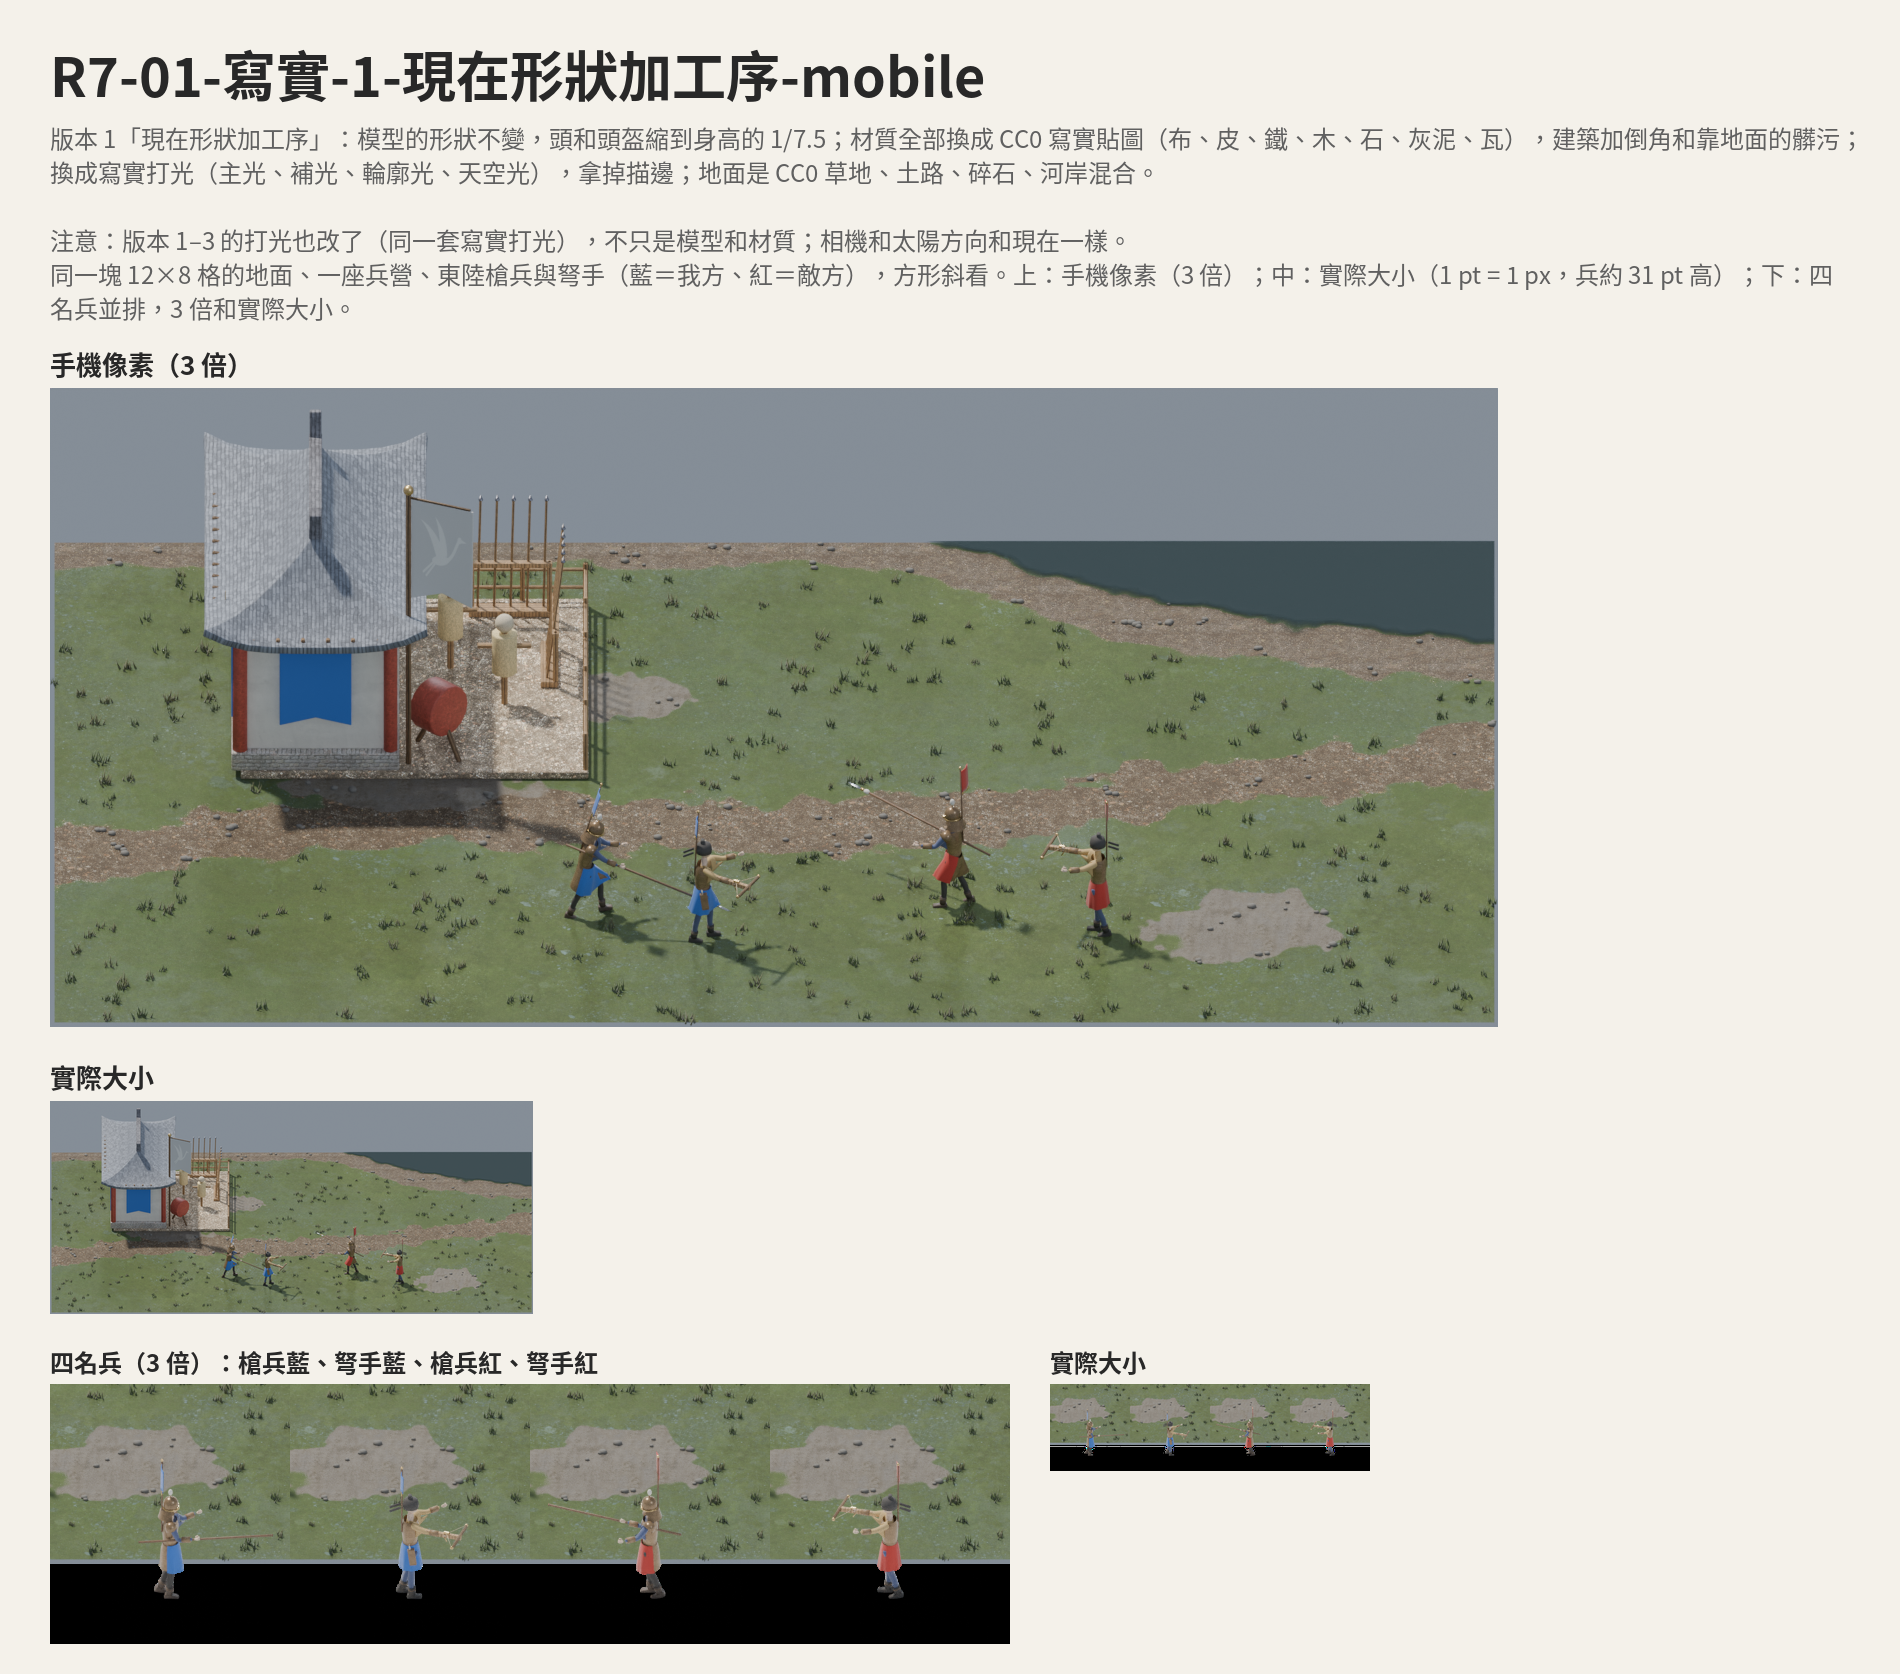
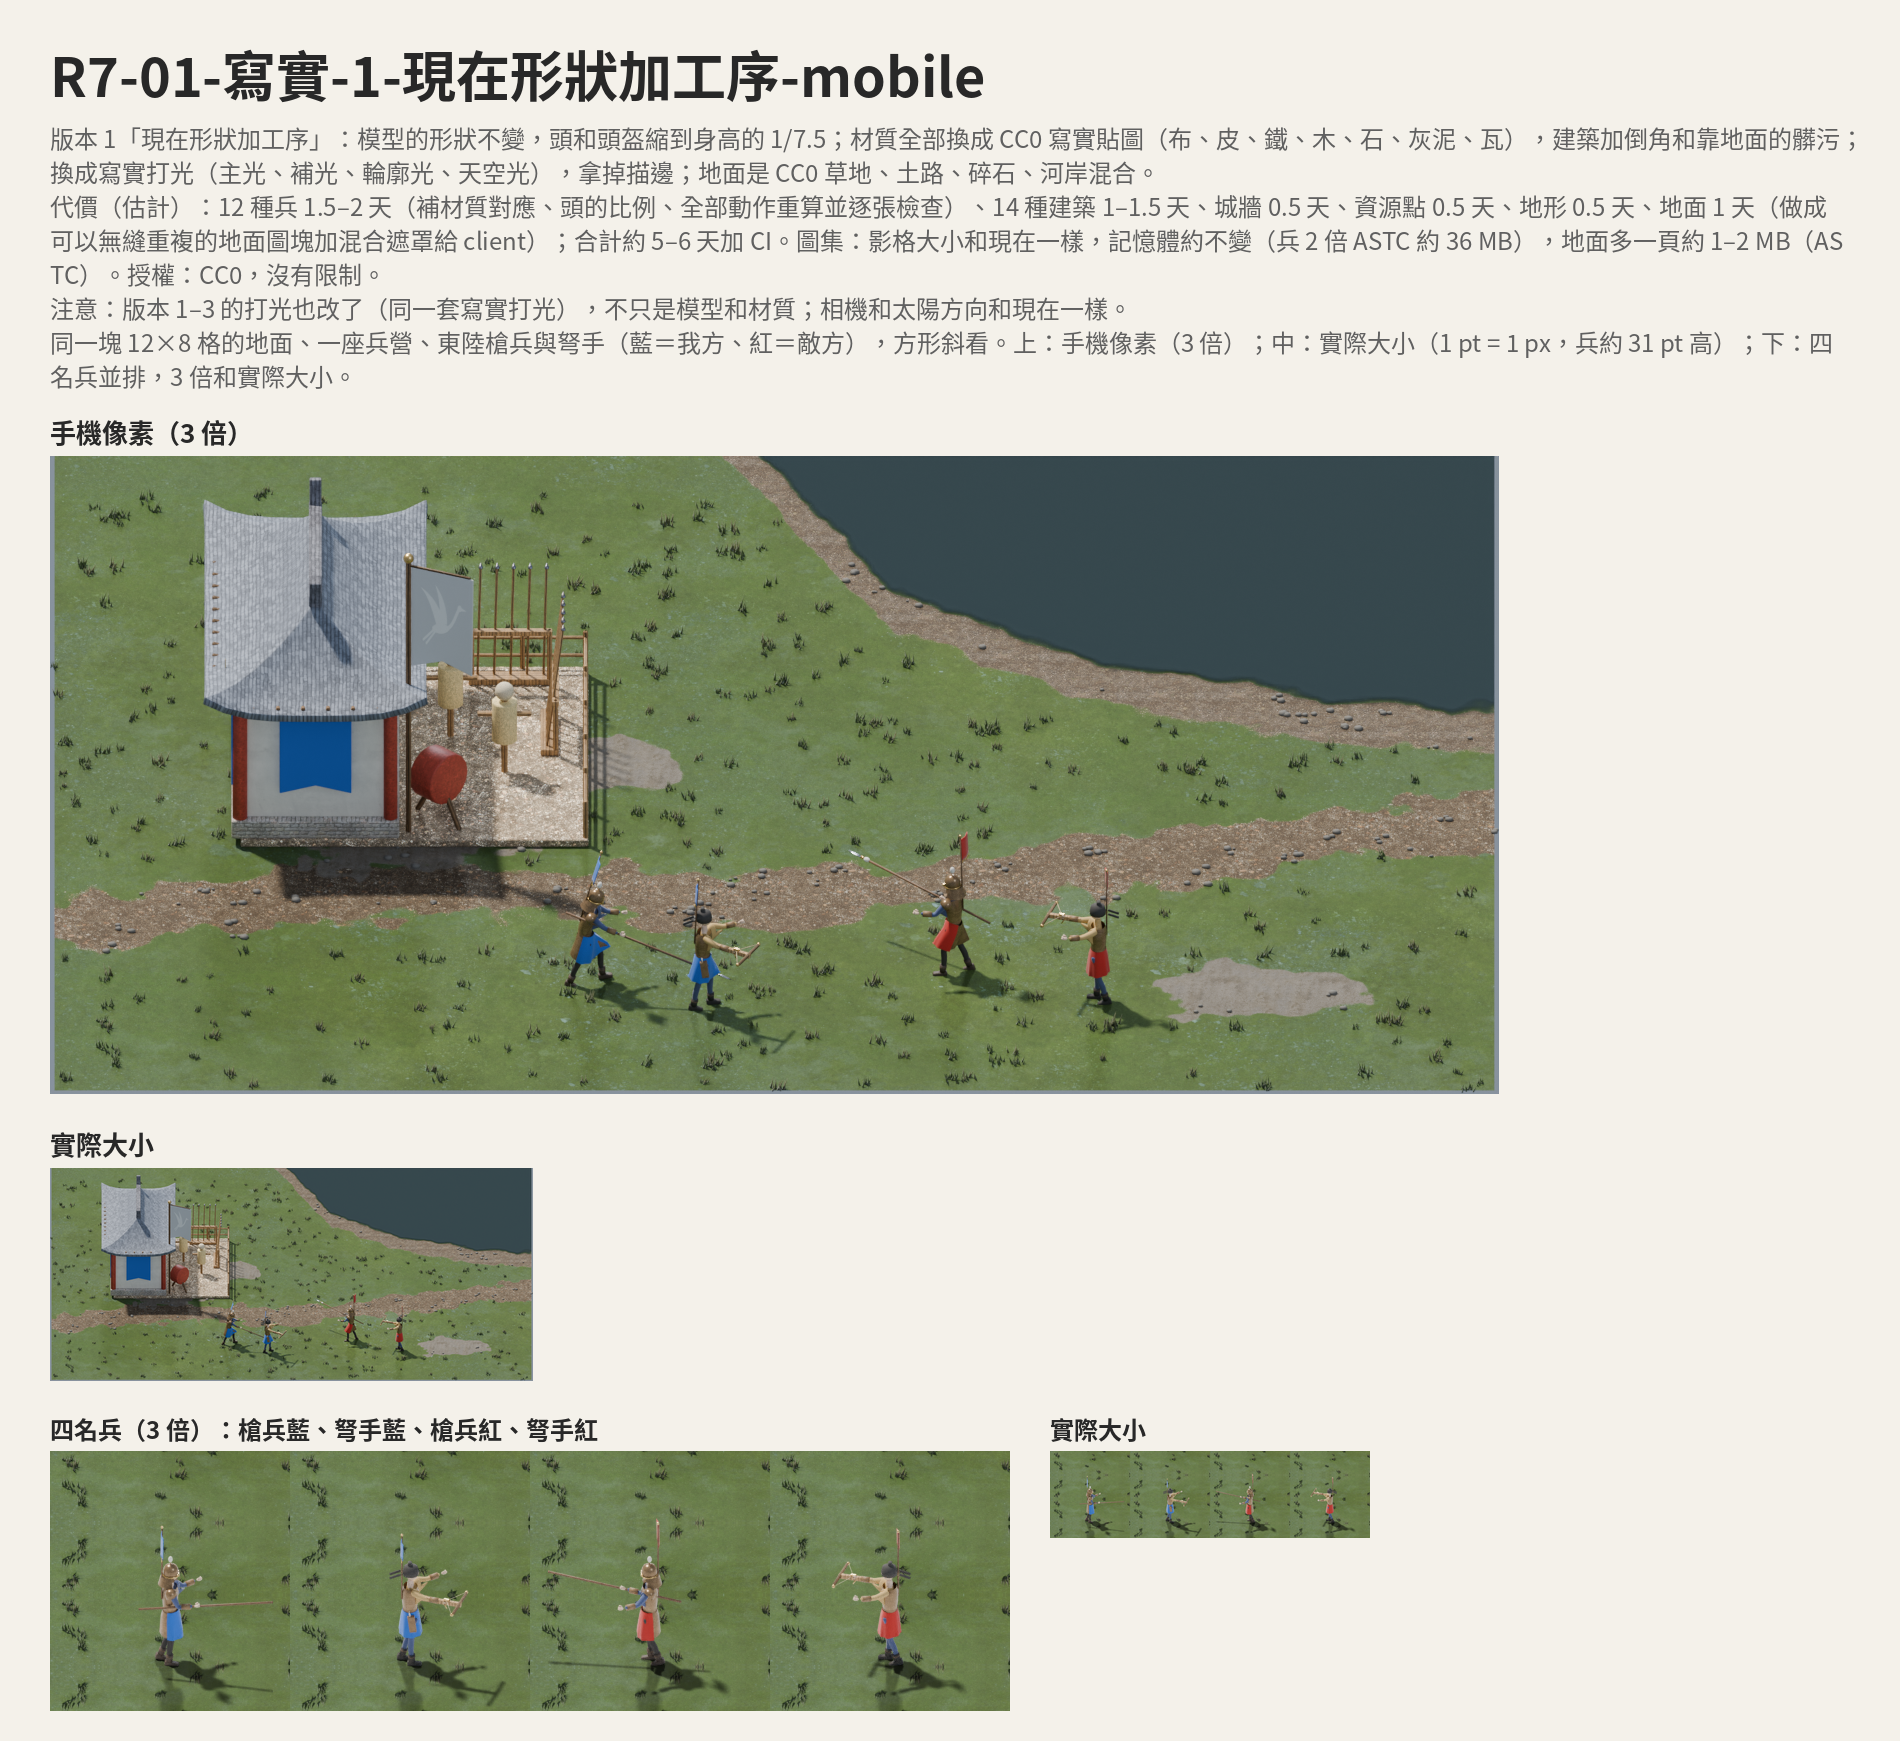
R7 比較圖：四個版本各一張（手機 3 倍、實際大小、四名兵並排、代價）、總覽、walk 與 attack 的 GIF；正式兵種算圖可以套 R7 外觀（R7_VERSION，輸出在另一個資料夾），給 style-test-1

Changed region(s): [[0.0, 0.0311, 0.9626, 0.994]]

diff --git a/design/r7/common/boards_r7.py b/design/r7/common/boards_r7.py
@@ -124,10 +124,14 @@ def ground_swatch(k, w, h):
         return Image.new("RGBA", (w, h), GROUND[0] + (255,))
     meta = json.loads((BUILD / f"v{k}" / "scene_x3.json").read_text())
     ax, ay = meta["anchor"]
-    x, y = int(ax - 9.0 * PPM), int(ay + 5.8 * PPM * 0.5)       # open grass west of the units
+    # a clean strip of grass in the south-west corner (2.4 m deep), repeated down the swatch
+    x, y = int(ax - 9.5 * PPM), int(ay + 6.6 * PPM * 0.5)
     x = min(max(x, w // 2), sc.width - w // 2)
-    y = min(max(y, h // 2), sc.height - h // 2)
-    return sc.crop((x - w // 2, y - h // 2, x + w // 2, y + h // 2))
+    band = sc.crop((x - w // 2, y - 36, x + w // 2, y + 36))
+    out = Image.new("RGBA", (w, h))
+    for k in range(0, h, band.height):
+        out.paste(band if (k // band.height) % 2 == 0 else band.transpose(Image.FLIP_TOP_BOTTOM), (0, k))
+    return out
 
 
 def strip(k, art, scale=1.0):
@@ -198,6 +202,15 @@ def board(k, art, ref, cost):
 
 COST = {
     0: "代價：不用重做。圖集照 art-v4 實測：兵 12 種 3 倍未壓縮 309 MB、2 倍 ASTC 36 MB；建築每個文化 3 倍約 46 MB。",
+    1: "代價（估計）：12 種兵 1.5–2 天（補材質對應、頭的比例、全部動作重算並逐張檢查）、14 種建築 1–1.5 天、城牆 0.5 天、"
+       "資源點 0.5 天、地形 0.5 天、地面 1 天（做成可以無縫重複的地面圖塊加混合遮罩給 client）；合計約 5–6 天加 CI。"
+       "圖集：影格大小和現在一樣，記憶體約不變（兵 2 倍 ASTC 約 36 MB），地面多一頁約 1–2 MB（ASTC）。授權：CC0，沒有限制。",
+    2: "代價（估計）：12 種兵 4–6 天（每種兵的衣服貼身要逐一調；長袍、裙甲、騎兵的騎手要重做；馬沒有寫實底模，要另找 CC0 的馬或沿用現在的）、"
+       "建築、城牆、資源點、地形、地面同版本 1（約 3.5–4 天）；合計約 8–10 天加 CI。圖集約不變。授權：MPFB 的人體素材 CC0，沒有限制。",
+    3: "代價（估計，這次實測）：AI 生成一個形狀約 20 秒（試用頁不登入只能生成形狀，加貼圖要 270 秒 GPU，超過免費額度）；"
+       "放回原位、分部位、綁骨架的程式約 2 秒，但手動修正（手臂和身體長在一起、伸手時拉出一片）一個兵花了約 20 分鐘試，還沒修乾淨。"
+       "12 種兵、14 種建築估計 6–9 天。完整的 AI 貼圖要付費方案（HF PRO 約每月 9 美元，或 Meshy、Tripo 的付費方案），"
+       "要不要花由使用者看過比較再決定。弩手沒有用 AI 生成（brief 只要槍兵和兵營），沿用版本 2。",
 }
 
 

diff --git a/design/r7/blender/r7_prod.py b/design/r7/blender/r7_prod.py
@@ -1,0 +1,52 @@
+"""R7 (D-092) on the production unit renders (design/production/blender/render_units.py, R7_VERSION set): the units
+of style-test-1 in a realism version's look, through the production passes (colour, player-colour mask, shadow, AO)
+so the client gets the art-vN atlas format. Version 1: textured materials, the head at 0.88; version 2: the MPFB body
+(human_r7). Both: the R7 light (look.lights), kept through lib.set_pass, which resets the world and the view.
+"""
+import gc
+import os
+
+import bpy
+import numpy as np
+
+import body2
+import lib
+import look
+
+GROUND_RES = ("leafy_grass", "aerial_grass_rock", "stony_dirt_path", "gravel_ground_01", "brown_mud_rocks_01")
+
+
+def tex_path(tid, k):
+    res = "2k" if tid in GROUND_RES else "1k"
+    return os.path.join(os.environ["R7_TEX"], f"{tid}_{k}_{res}.jpg")
+
+
+def apply(u, kind, version):
+    sks = [o for o in gc.get_objects() if isinstance(o, body2.Skinner)]
+    if version == 1:
+        u.rigs["body"].j["head"].scale = (0.88, 0.88, 0.88)
+    if version == 2:
+        import human_r7
+        more, _ = human_r7.dress(u, kind)
+        sks += more
+    look.rest_coords(sks)
+    for ob in bpy.data.objects:
+        if ob.type == "MESH" and "rest" not in ob.data.attributes:
+            me = ob.data
+            co = np.empty(len(me.vertices) * 3, np.float32)
+            me.vertices.foreach_get("co", co)
+            me.attributes.new("rest", "FLOAT_VECTOR", "POINT").data.foreach_set("vector", co)
+    look.realistic(tex_path, dirt=0.35, skinned_attr="rest")
+    look.lights()
+    world = bpy.context.scene.world
+    orig = lib.set_pass
+
+    def set_pass(name, samples=None):
+        orig(name, samples)
+        if name == "beauty":
+            bpy.context.scene.view_settings.look = "AgX - Medium High Contrast"
+        if name in ("beauty", "shadow"):
+            lib.world_color((0.62, 0.72, 0.88), 0.38)
+            lib.LIGHTS["neutral"].hide_render = True
+    lib.set_pass = set_pass
+    return world

diff --git a/design/production/blender/render_units.py b/design/production/blender/render_units.py
@@ -46,6 +46,10 @@ if job.get("new_anims"):              # the approved new animations (anims.py)
     if job.get("infantry_fall") is not None:
         anims.INFANTRY_FALL = bool(job["infantry_fall"])
     u = anims.extend(u, job["kind"], job.get("mage_style"))
+if os.environ.get("R7_VERSION"):      # R7 (D-092) style test: a realism version's look (design/r7/blender/r7_prod.py)
+    sys.path.insert(0, os.path.join(HERE, "..", "..", "r7", "blender"))
+    import r7_prod  # noqa: E402
+    r7_prod.apply(u, job["kind"], int(os.environ["R7_VERSION"]))
 if job.get("frames"):
     u.frames = dict(getattr(u, "frames", {}), **job["frames"])
 # the flying 晶砲 bolt is a projectile the game draws itself (client/docs/sprite-atlas.md): not in the unit images

diff --git a/design/production/common/config.py b/design/production/common/config.py
@@ -12,6 +12,9 @@ from pathlib import Path
 
 ROUND = Path(__file__).resolve().parents[1]          # design/round1
 BUILD = ROUND / "build"                              # intermediate, git-ignored
+R7_VERSION = os.environ.get("R7_VERSION")             # R7 (D-092) style test: the units in a realism version's look
+if R7_VERSION:
+    BUILD = BUILD / f"r7v{R7_VERSION}"                # ... rendered beside the production ones, never over them
 OUT = ROUND / "out"                                  # final labelled images
 
 BLENDER = Path(os.environ.get("BLENDER", Path.home() / ".local/opt/blender-5.2.2/blender"))

diff --git a/design/production/common/postprocess.py b/design/production/common/postprocess.py
@@ -205,6 +205,8 @@ def run(target, scale=3.0, page=2048, team_gain=TEAM_GAIN, astc=None, facings=No
                                 "-medium"], check=True)
     anims = {}
     for a, n, _, ph in u["anims"]:
+        if not any(k.startswith(f"{target}_{a}_f") for k in tables["color"]):
+            continue                      # not rendered (the R7 style test renders idle, walk and attack only)
         d = dict(frames=n, fps=spec.FPS.get(a, 12), loop=a in ("idle", "walk") or a.startswith("work_"),
                  placeholder=ph)
         if a == "attack":

diff --git a/design/production/blender/batch.py b/design/production/blender/batch.py
@@ -12,7 +12,7 @@ HERE = Path(__file__).resolve().parent
 sys.path.insert(0, str(HERE.parent / "common"))
 import config  # noqa: E402
 
-EMBLEMS = config.BUILD / "emblems"
+EMBLEMS = config.ROUND / "build" / "emblems"
 
 
 def run(kind, items, px_per_m, level="A", quality="hq", variant=0, frame_m=None, samples=None, tag="job",

diff --git a/design/r7/README.md b/design/r7/README.md
@@ -1,0 +1,34 @@
+# R7 寫實畫風比較（D-092）
+
+brief：`docs/briefs/2026-10-r7-realism-ui.md`。同一組內容做成四個版本並排：東陸槍兵、弩手，一座兵營，一塊 12×8 格的地面。四個版本都用方形斜看。
+
+| 版本 | 做法 | 程式 |
+|---|---|---|
+| 0 現在 | art-v4 原樣，地面是遊戲現在的兩種綠格子（`client/src/render/world.ts`） | `common/boards_r7.py`（用 art-v4 合成） |
+| 1 現在形狀加工序 | 形狀不變，頭縮成身高約 1/7.5；材質換成 CC0 貼圖，建築加倒角和髒污；換成 R7 打光、拿掉描邊；CC0 地面 | `blender/look.py`、`blender/ground_r7.py` |
+| 2 寫實人體底模 | 版本 1，加上兵換成 MPFB 寫實人體，用核准的動作驅動 | `blender/human_r7.py` |
+| 3 AI 生成（只做測試） | Hunyuan3D 2.1 試用頁從我們的概念圖生成形狀，依部位套我們的 CC0 材質，綁到我們的骨架 | `common/hunyuan.py`、`blender/ai_r7.py` |
+
+- 外部素材：授權記在 `../../THIRD_PARTY_NOTICES.md`。
+  - CC0 貼圖照 `common/textures_sha.json` 下載，核對 sha256，原始檔不進 repo。
+  - 版本 3 的生成物只用在比較圖，不放進任何 Release。
+- 版本 1–3 的打光一樣：太陽方向和現在一樣，加補光、天空光，用 AgX Medium High Contrast。圖上都註明打光也改了。
+
+## 輸出（`out/`）
+
+| 檔名 | 內容 |
+|---|---|
+| `R7-0<k>-寫實-<k>-<名>-mobile.png` | 一個版本一張：手機 3 倍、實際大小、四名兵並排（藍、紅），代價 |
+| `R7-0<k>-寫實-<k>-<名>-動作.gif` | 槍兵、弩手的 walk 和 attack |
+| `R7-00-寫實-總覽.png` | 四個版本並排，實際大小 |
+
+## 怎麼重做
+
+```bash
+python3 common/textures.py fetch                 # CC0 貼圖（核對 sha256）
+python3 common/run.py 1                          # 版本 1：戰場和兵的影格（build/v1/）
+python3 common/run.py 2                          # 版本 2：要先在 Blender 裝 MPFB 2.0.18（THIRD_PARTY_NOTICES.md 有網址和 sha256）
+# 版本 3：先算概念圖（render_r7.py 的 concept 項目），再用 common/hunyuan.py 生成形狀，放到 build/ai/
+python3 common/run.py 3
+python3 common/boards_r7.py ART 0 1 2 3          # ART：解開的 art-v4-x3
+```
